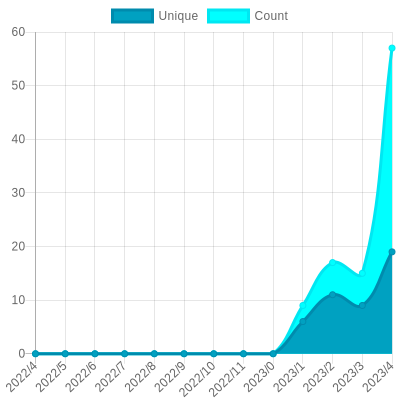
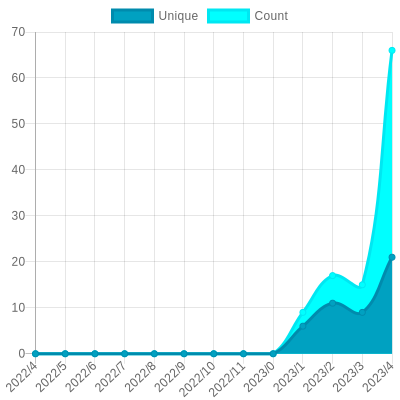
Update views

diff --git a/readme/455063776/year.md b/readme/455063776/year.md
@@ -23,10 +23,10 @@
 			<code>2022/5/1</code>
 		</td>
 		<td>
-			<code>19</code>
+			<code>21</code>
 		</td>
 		<td>
-			<code>57</code>
+			<code>66</code>
 		</td>
 	</tr>
 	<tr>
@@ -164,7 +164,7 @@
 </table>
 
 </details>
-<small><i>Last updated on 2022/5/26 1:53 AM UTC</i></small>
+<small><i>Last updated on 2022/5/26 12:39 PM UTC</i></small>
 
 ### SVG Badge
 [![Image of Repository_Views](https://github.com/Sabyasachi-Seal/Repository_Views/blob/master/svg/455063776/badge.svg)](https://github.com/Sabyasachi-Seal/Repository_Views/blob/master/readme/455063776/week.md)

diff --git a/readme/402411478/year.md b/readme/402411478/year.md
@@ -164,7 +164,7 @@
 </table>
 
 </details>
-<small><i>Last updated on 2022/5/26 1:55 AM UTC</i></small>
+<small><i>Last updated on 2022/5/26 12:41 PM UTC</i></small>
 
 ### SVG Badge
 [![Image of Repository_Views](https://github.com/Sabyasachi-Seal/Repository_Views/blob/master/svg/402411478/badge.svg)](https://github.com/Sabyasachi-Seal/Repository_Views/blob/master/readme/402411478/week.md)

diff --git a/readme/403671500/year.md b/readme/403671500/year.md
@@ -164,7 +164,7 @@
 </table>
 
 </details>
-<small><i>Last updated on 2022/5/26 1:52 AM UTC</i></small>
+<small><i>Last updated on 2022/5/26 12:39 PM UTC</i></small>
 
 ### SVG Badge
 [![Image of Repository_Views](https://github.com/Sabyasachi-Seal/Repository_Views/blob/master/svg/403671500/badge.svg)](https://github.com/Sabyasachi-Seal/Repository_Views/blob/master/readme/403671500/week.md)

diff --git a/readme/429010160/year.md b/readme/429010160/year.md
@@ -164,7 +164,7 @@
 </table>
 
 </details>
-<small><i>Last updated on 2022/5/26 1:54 AM UTC</i></small>
+<small><i>Last updated on 2022/5/26 12:40 PM UTC</i></small>
 
 ### SVG Badge
 [![Image of Repository_Views](https://github.com/Sabyasachi-Seal/Repository_Views/blob/master/svg/429010160/badge.svg)](https://github.com/Sabyasachi-Seal/Repository_Views/blob/master/readme/429010160/week.md)

diff --git a/readme/442779945/year.md b/readme/442779945/year.md
@@ -164,7 +164,7 @@
 </table>
 
 </details>
-<small><i>Last updated on 2022/5/26 1:54 AM UTC</i></small>
+<small><i>Last updated on 2022/5/26 12:40 PM UTC</i></small>
 
 ### SVG Badge
 [![Image of Repository_Views](https://github.com/Sabyasachi-Seal/Repository_Views/blob/master/svg/442779945/badge.svg)](https://github.com/Sabyasachi-Seal/Repository_Views/blob/master/readme/442779945/week.md)

diff --git a/readme/443268905/year.md b/readme/443268905/year.md
@@ -164,7 +164,7 @@
 </table>
 
 </details>
-<small><i>Last updated on 2022/5/26 1:53 AM UTC</i></small>
+<small><i>Last updated on 2022/5/26 12:40 PM UTC</i></small>
 
 ### SVG Badge
 [![Image of Repository_Views](https://github.com/Sabyasachi-Seal/Repository_Views/blob/master/svg/443268905/badge.svg)](https://github.com/Sabyasachi-Seal/Repository_Views/blob/master/readme/443268905/week.md)

diff --git a/readme/443359438/year.md b/readme/443359438/year.md
@@ -164,7 +164,7 @@
 </table>
 
 </details>
-<small><i>Last updated on 2022/5/26 1:55 AM UTC</i></small>
+<small><i>Last updated on 2022/5/26 12:42 PM UTC</i></small>
 
 ### SVG Badge
 [![Image of Repository_Views](https://github.com/Sabyasachi-Seal/Repository_Views/blob/master/svg/443359438/badge.svg)](https://github.com/Sabyasachi-Seal/Repository_Views/blob/master/readme/443359438/week.md)

diff --git a/readme/443374992/year.md b/readme/443374992/year.md
@@ -164,7 +164,7 @@
 </table>
 
 </details>
-<small><i>Last updated on 2022/5/26 1:56 AM UTC</i></small>
+<small><i>Last updated on 2022/5/26 12:42 PM UTC</i></small>
 
 ### SVG Badge
 [![Image of Repository_Views](https://github.com/Sabyasachi-Seal/Repository_Views/blob/master/svg/443374992/badge.svg)](https://github.com/Sabyasachi-Seal/Repository_Views/blob/master/readme/443374992/week.md)

diff --git a/readme/443469139/year.md b/readme/443469139/year.md
@@ -164,7 +164,7 @@
 </table>
 
 </details>
-<small><i>Last updated on 2022/5/26 1:54 AM UTC</i></small>
+<small><i>Last updated on 2022/5/26 12:41 PM UTC</i></small>
 
 ### SVG Badge
 [![Image of Repository_Views](https://github.com/Sabyasachi-Seal/Repository_Views/blob/master/svg/443469139/badge.svg)](https://github.com/Sabyasachi-Seal/Repository_Views/blob/master/readme/443469139/week.md)

diff --git a/readme/444277983/year.md b/readme/444277983/year.md
@@ -164,7 +164,7 @@
 </table>
 
 </details>
-<small><i>Last updated on 2022/5/26 1:52 AM UTC</i></small>
+<small><i>Last updated on 2022/5/26 12:39 PM UTC</i></small>
 
 ### SVG Badge
 [![Image of Repository_Views](https://github.com/Sabyasachi-Seal/Repository_Views/blob/master/svg/444277983/badge.svg)](https://github.com/Sabyasachi-Seal/Repository_Views/blob/master/readme/444277983/week.md)

diff --git a/readme/445373339/year.md b/readme/445373339/year.md
@@ -164,7 +164,7 @@
 </table>
 
 </details>
-<small><i>Last updated on 2022/5/26 1:52 AM UTC</i></small>
+<small><i>Last updated on 2022/5/26 12:38 PM UTC</i></small>
 
 ### SVG Badge
 [![Image of Repository_Views](https://github.com/Sabyasachi-Seal/Repository_Views/blob/master/svg/445373339/badge.svg)](https://github.com/Sabyasachi-Seal/Repository_Views/blob/master/readme/445373339/week.md)

diff --git a/readme/448198858/year.md b/readme/448198858/year.md
@@ -164,7 +164,7 @@
 </table>
 
 </details>
-<small><i>Last updated on 2022/5/26 1:54 AM UTC</i></small>
+<small><i>Last updated on 2022/5/26 12:41 PM UTC</i></small>
 
 ### SVG Badge
 [![Image of Repository_Views](https://github.com/Sabyasachi-Seal/Repository_Views/blob/master/svg/448198858/badge.svg)](https://github.com/Sabyasachi-Seal/Repository_Views/blob/master/readme/448198858/week.md)
